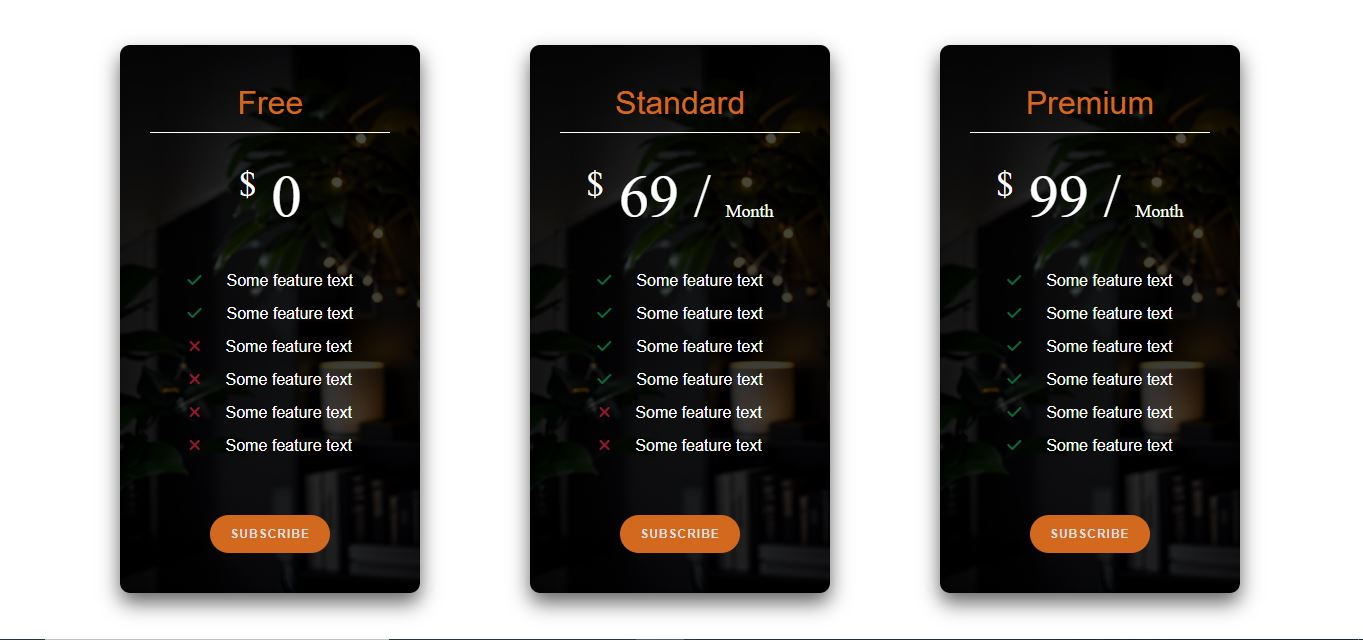
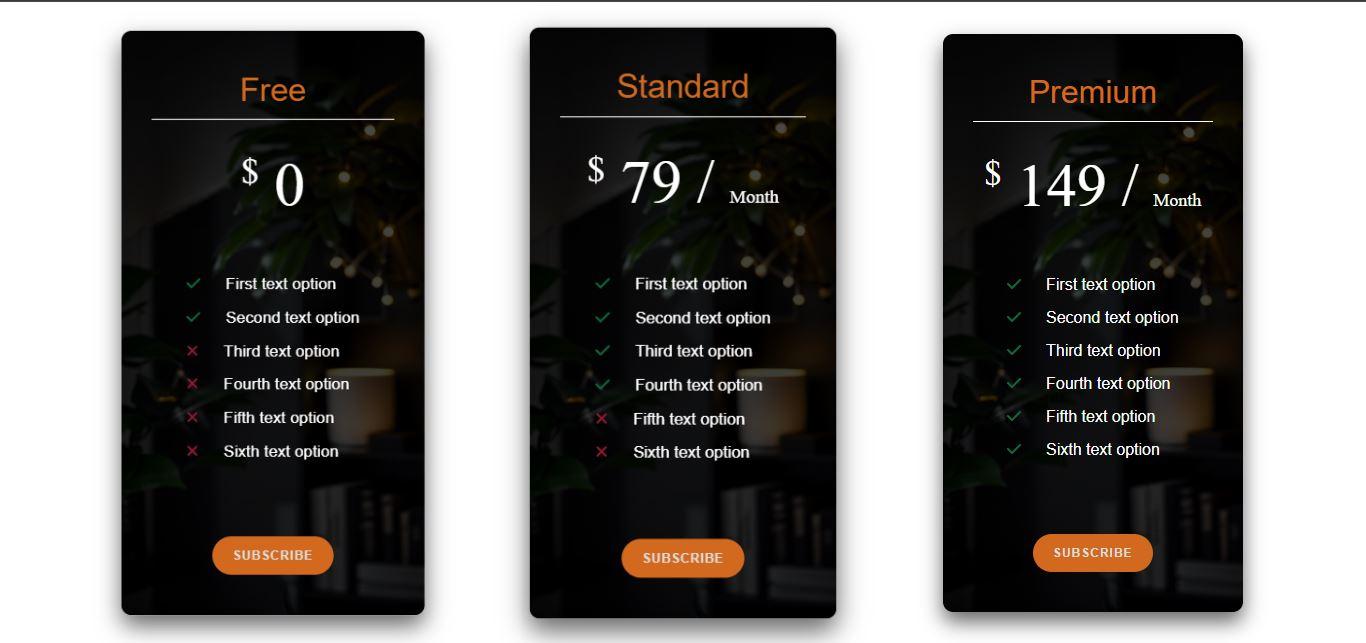
Second commit

diff --git a/index.html b/index.html
@@ -47,8 +47,8 @@
             <ul>
               <li><i class="fas fa-check"></i>First text option</li>
               <li><i class="fas fa-check"></i>Second text option</li>
-              <li><i class="fas fa-times"></i>Third text option</li>
-              <li><i class="fas fa-times"></i>Fourth text option</li>
+              <li><i class="fas fa-check"></i>Third text option</li>
+              <li><i class="fas fa-check"></i>Fourth text option</li>
               <li><i class="fas fa-times"></i>Fifth text option</li>
               <li><i class="fas fa-times"></i>Sixth text option</li>
             </ul>
@@ -66,10 +66,10 @@
             <ul>
               <li><i class="fas fa-check"></i>First text option</li>
               <li><i class="fas fa-check"></i>Second text option</li>
-              <li><i class="fas fa-times"></i>Third text option</li>
-              <li><i class="fas fa-times"></i>Fourth text option</li>
-              <li><i class="fas fa-times"></i>Fifth text option</li>
-              <li><i class="fas fa-times"></i>Sixth text option</li>
+              <li><i class="fas fa-check"></i>Third text option</li>
+              <li><i class="fas fa-check"></i>Fourth text option</li>
+              <li><i class="fas fa-check"></i>Fifth text option</li>
+              <li><i class="fas fa-check"></i>Sixth text option</li>
             </ul>
           </div>
           <div class="card-footer">
